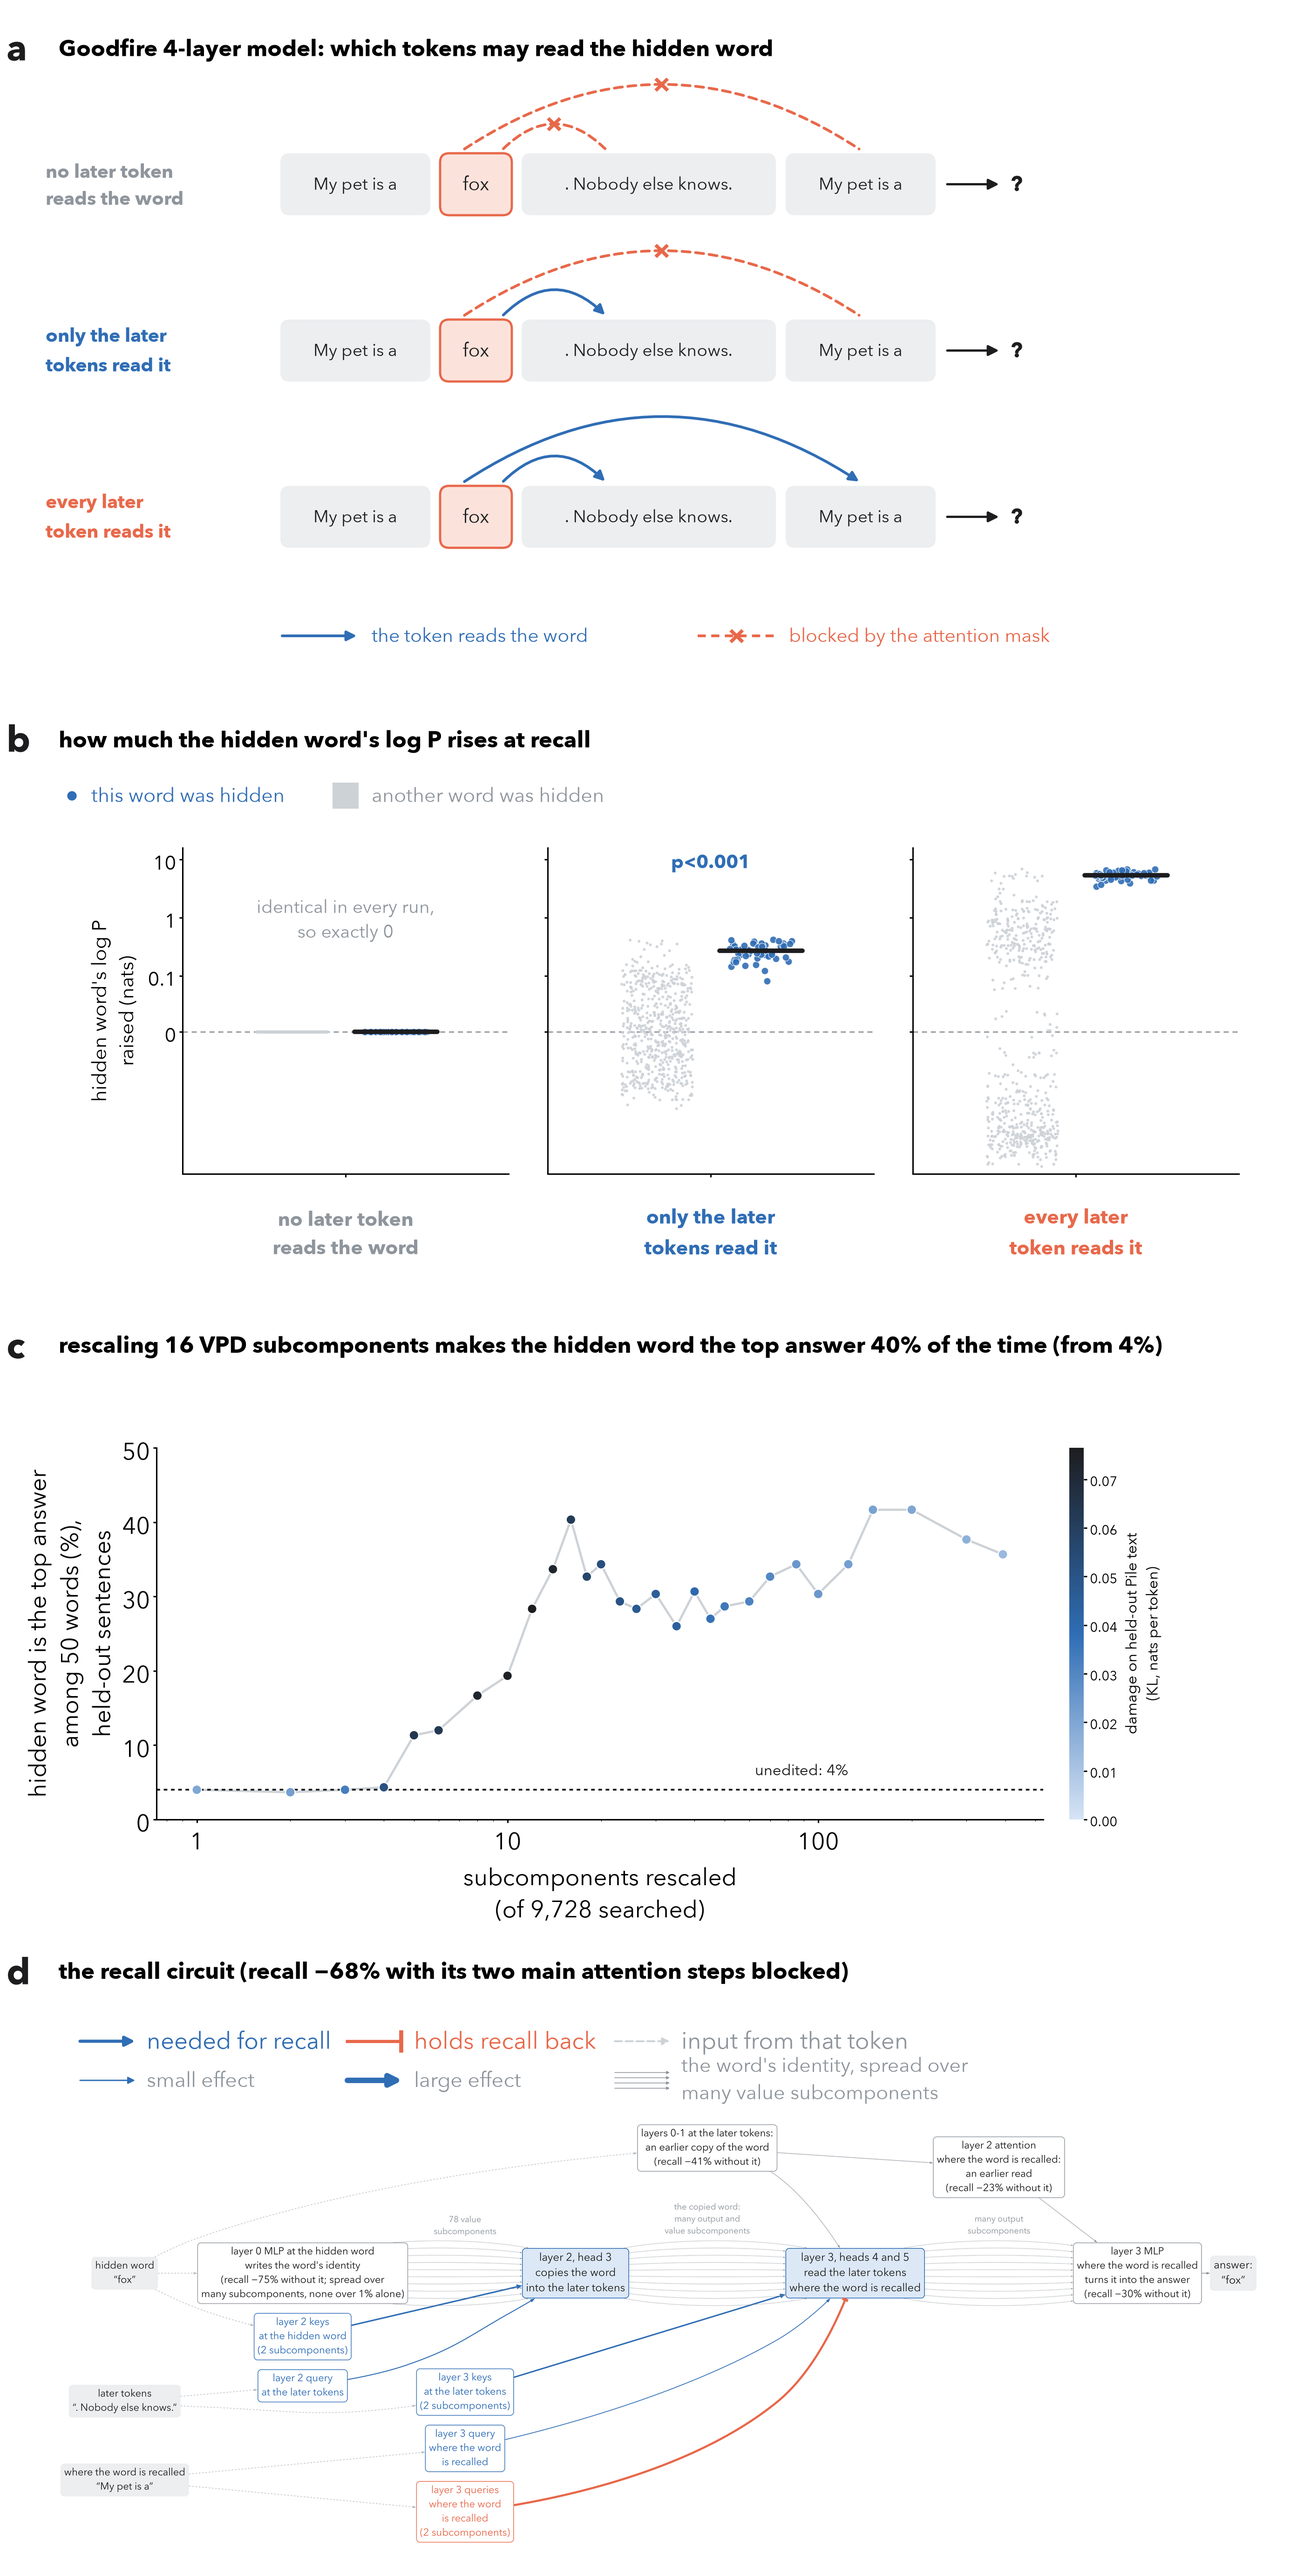
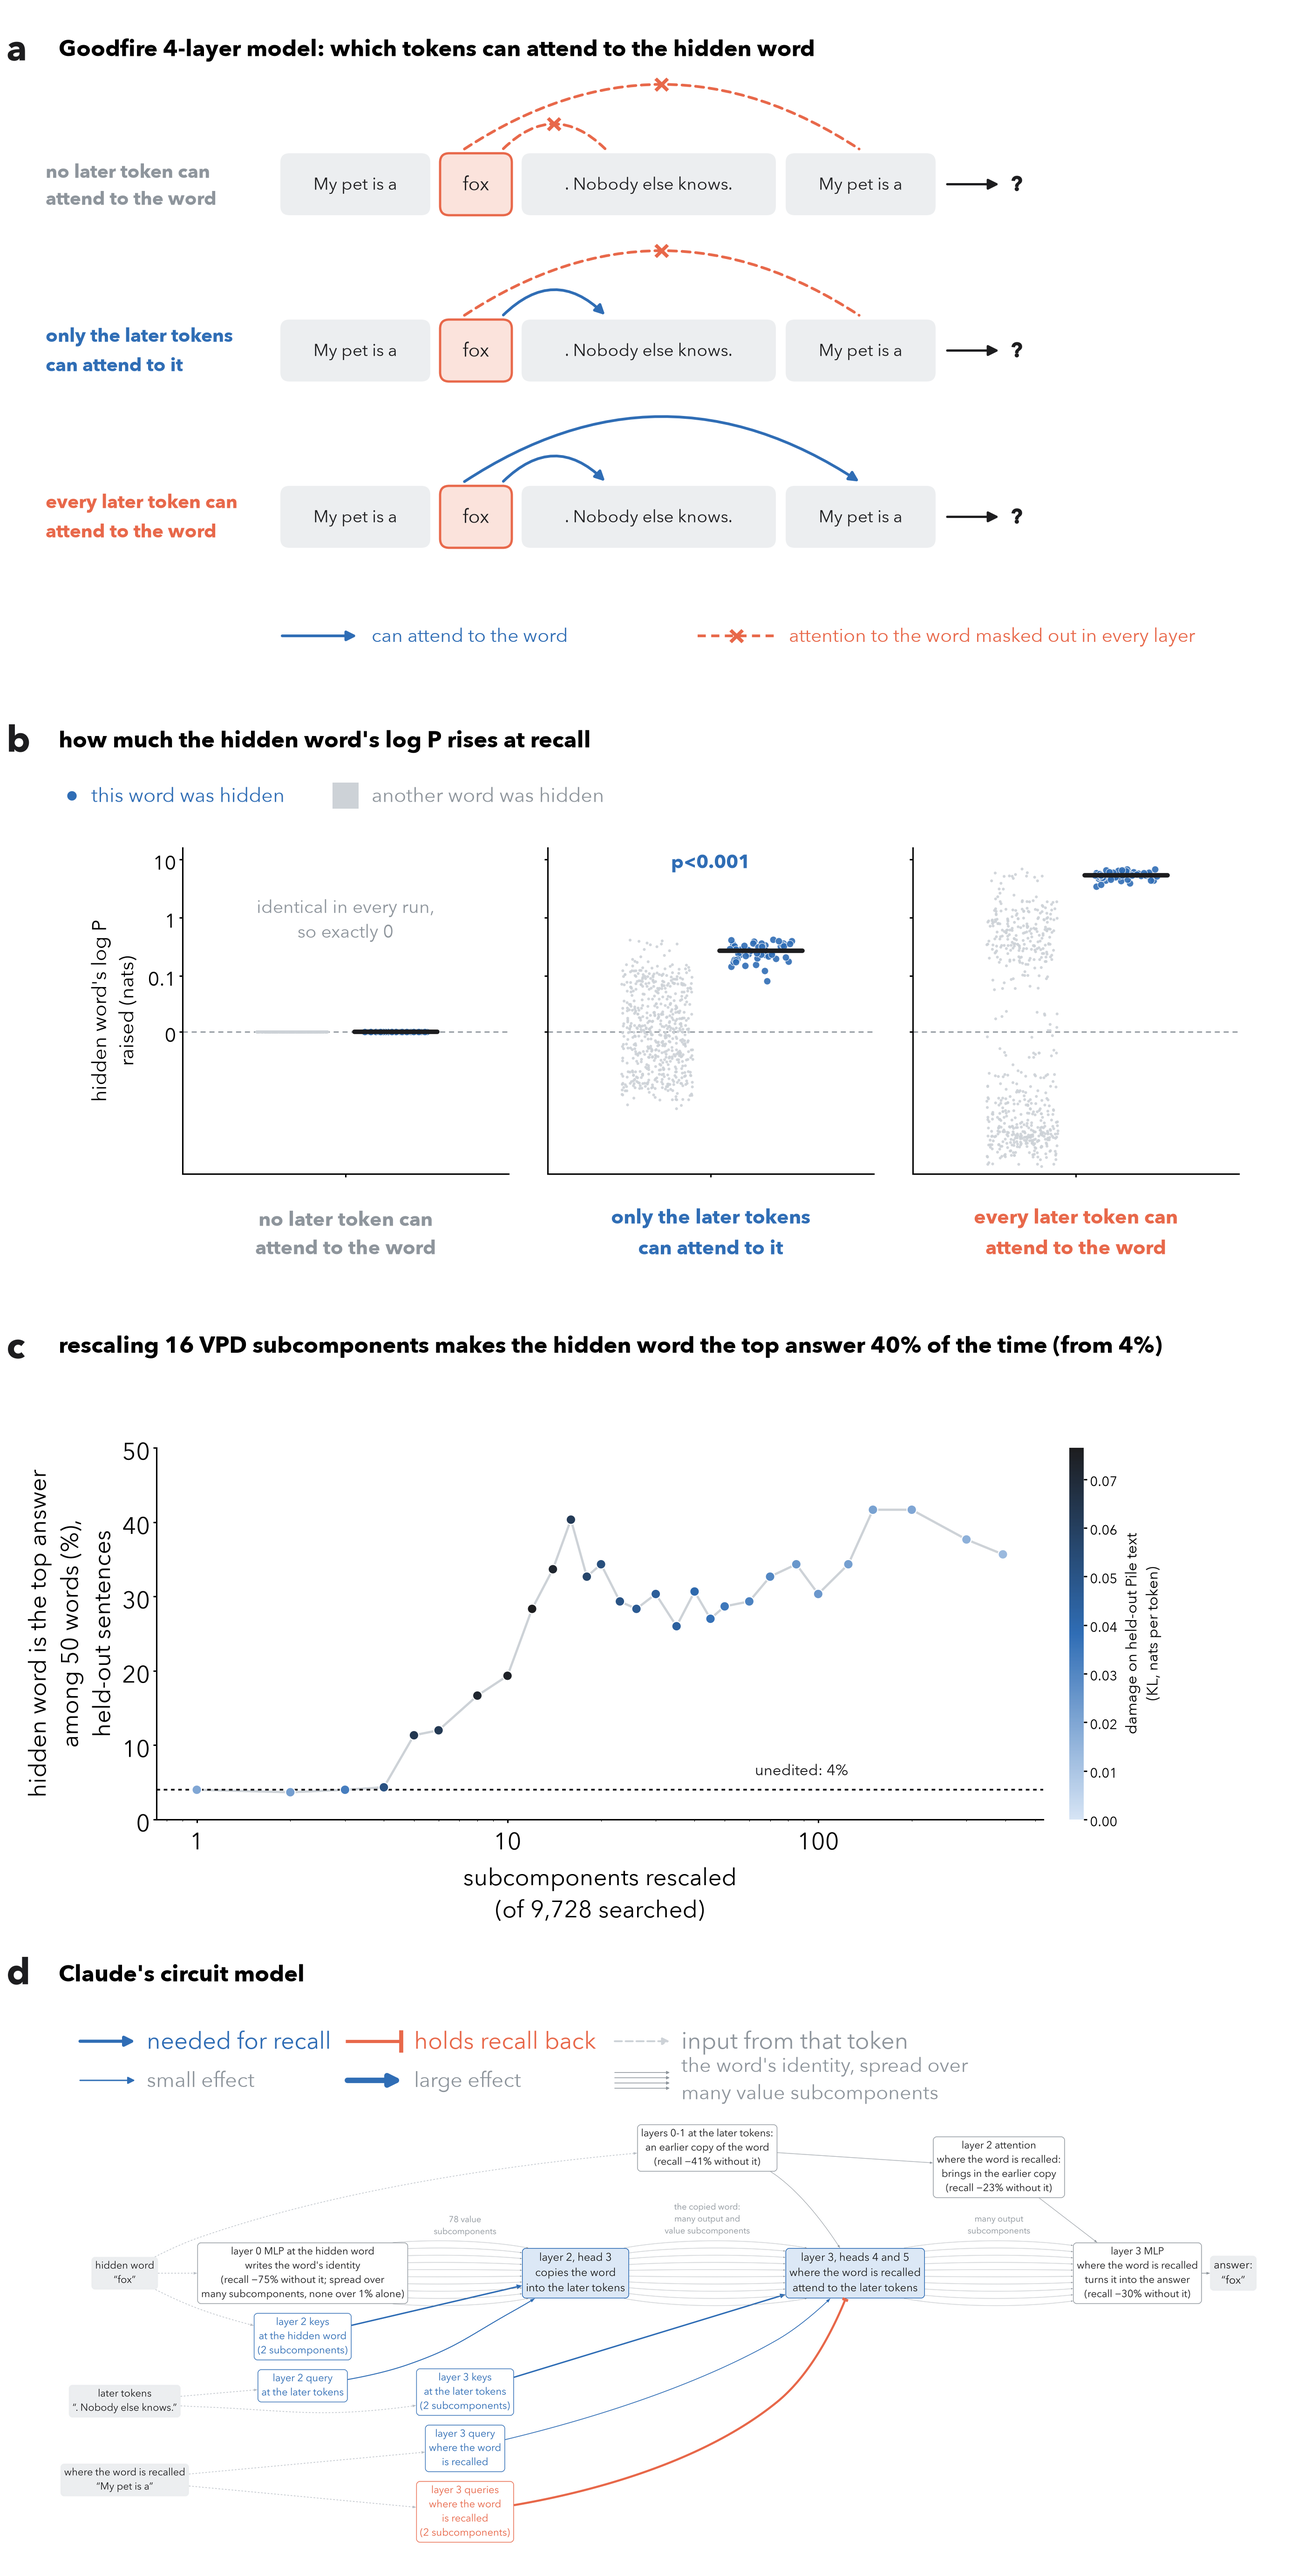
4-layer wording: 'read' replaced by what the masks and heads do (tokens that can attend to the word; attention to the word masked out in every layer; heads 3.4 and 3.5 attend to the later tokens; layer 2 attention brings in the earlier copy), in both figures; the Goodfire figure's circuit panel is t

diff --git a/figure_goodfire.py b/figure_goodfire.py
@@ -3,26 +3,25 @@
   b  in each condition, the raise of the hidden word's log P at recall within its template (nats), against the same with
      the hidden words re-paired at random (main figure: b's last column)
   c  the fewest VPD subcomponents that make the hidden word the top answer (main figure: i)
-  d  the recall circuit: two attention steps and the VPD subcomponents measured to switch them (main figure: k)
+  d  Claude's circuit model of recall: two attention steps and the VPD subcomponents measured to switch them (main
+     figure: k)
 usage: make_figure.sh
 """
 import argparse
 
 import matplotlib.pyplot as plt
 
-from figure_main import BLUE, CLOUD, CORAL, SLATE, Canvas, row_circuit, row_fourlayer, strip_raise, text_schematic
+from figure_main import BLUE, CLOUD, SLATE, TEXT_CONDITIONS, Canvas, row_circuit, row_fourlayer, strip_raise, text_schematic
 
 W = 20.0                                   # figure width in drawing units (inches)
 ROWS = [10.6, 9.3, 9.6, 10.0]              # heights of the four rows
 H = sum(ROWS)
-CONDITIONS = [("stripped", SLATE, "no later token\nreads the word"), ("retained", BLUE, "only the later\ntokens read it"),
-              ("visible", CORAL, "every later\ntoken reads it")]
 
 
 def row_test(cv, y0):
     """Panel a, occupying [y0, y0 + ROWS[0]], its key below the sentences."""
     top = y0 + ROWS[0]
-    text_schematic(cv, 0.6, top, letter="a", title="Goodfire 4-layer model: which tokens may read the hidden word",
+    text_schematic(cv, 0.6, top, letter="a", title="Goodfire 4-layer model: which tokens can attend to the hidden word",
                    key_at=(4.3, top - 9.75, 6.4, 0))
 
 
@@ -35,7 +34,7 @@ def row_raise(cv, text4l, y0):
     cv.S.text(1.4, top - 1.6, "this word was hidden", fontsize=22, color=BLUE, va="center")
     cv.S.add_patch(plt.Rectangle((5.1, top - 1.8), 0.4, 0.4, facecolor=CLOUD, edgecolor="none"))
     cv.S.text(5.7, top - 1.6, "another word was hidden", fontsize=22, color=SLATE, va="center")
-    for k, (name, col, label) in enumerate(CONDITIONS):
+    for k, (name, col, label) in enumerate(TEXT_CONDITIONS):
         x = 2.8 + 5.6 * k
         ax = cv.axes(x, y0 + 1.9, 5.0, ROWS[1] - 4.3)
         strip_raise(ax, text4l, name, (-3, 16), [0, 0.1, 1, 10], name == "retained")
@@ -65,7 +64,7 @@ def main():
                   title="rescaling {k} VPD subcomponents makes the hidden word the top answer {top:.0f}% of the time "
                         "(from {base:.0f}%)")
     row_circuit(cv, a.parts, 0, rh=ROWS[3], letter="d",
-                title="the recall circuit (recall −{share:.0f}% with its two main attention steps blocked)")
+                title="Claude's circuit model")
     fig.savefig(a.out, dpi=140)                    # 2,800 pixels wide, as main.png
 
 

diff --git a/figure_main.py b/figure_main.py
@@ -596,16 +596,20 @@ def row_schematic(cv, y0):
     text_schematic(cv, 0.6, y0 + ROWS[4])
 
 
+TEXT_CONDITIONS = [("stripped", SLATE, "no later token can\nattend to the word"),     # fourlayer/hidden_span.py masks
+                   ("retained", BLUE, "only the later tokens\ncan attend to it"),
+                   ("visible", CORAL, "every later token can\nattend to the word")]
+
+
 def text_schematic(cv, x0, top, letter="j", title="Goodfire 4-layer model: the same test in plain text", key_at=None):
     """Panel j: the three conditions of Goodfire's 4-layer model in plain text (fourlayer/hidden_span.py): attention
-    masks, in every layer, decide which later tokens may read the hidden word; arcs from the word to its readers.
+    masks, in every layer and head, decide which later tokens may attend to the hidden word; arcs from the word to the
+    tokens that may.
     key_at: (x, y, dx, dy) of the key's first entry and the step to its second (default: to the right, stacked)."""
     S, h = cv.S, 0.95
     cv.letter(x0 - 0.5, top - 0.75, letter)
     S.text(x0 + 0.3, top - 0.75, title, fontsize=25, weight="bold", va="center")
-    rows = [("stripped", SLATE, "no later token\nreads the word", False, False),
-            ("retained", BLUE, "only the later\ntokens read it", True, False),
-            ("visible", CORAL, "every later\ntoken reads it", True, True)]
+    rows = [c + ok for c, ok in zip(TEXT_CONDITIONS, ((False, False), (True, False), (True, True)))]
     xs = {"frame": (x0 + 3.7, 2.3), "word": (x0 + 6.15, 1.1), "later": (x0 + 7.4, 3.9), "cue": (x0 + 11.45, 2.3)}
 
     def arc(xa, xb, y, ok, rad):
@@ -630,11 +634,11 @@ def text_schematic(cv, x0, top, letter="j", title="Goodfire 4-layer model: the s
         arc(wx - 0.2, xs["cue"][0] + xs["cue"][1] / 2, y + h + 0.05, cue_ok, -0.33)
     kx, ky, dx, dy = key_at or (x0 + 17.2, top - 3.3 - 2.55 + h / 2 + 0.45, 0, -0.9)
     S.annotate("", xy=(kx + 1.2, ky), xytext=(kx, ky), arrowprops=dict(arrowstyle="-|>", color=BLUE, lw=3, mutation_scale=22))
-    S.text(kx + 1.4, ky, "the token reads the word", fontsize=21, color=BLUE, va="center")
+    S.text(kx + 1.4, ky, "can attend to the word", fontsize=21, color=BLUE, va="center")
     kx, ky = kx + dx, ky + dy
     S.plot([kx, kx + 1.2], [ky, ky], color=CORAL, lw=3, ls=(0, (3, 2)))
     S.text(kx + 0.6, ky, "\u00d7", ha="center", va="center", fontsize=30, color=CORAL, weight="bold")
-    S.text(kx + 1.4, ky, "blocked by the attention mask", fontsize=21, color=CORAL, va="center")
+    S.text(kx + 1.4, ky, "attention to the word masked out in every layer", fontsize=21, color=CORAL, va="center")
 
 
 MECH_ATT, MECH_WORD = "results/fp32/attention_all.npz", "results/fp32/wording_heldout_mac.npz"

diff --git a/circuit_dot.py b/circuit_dot.py
@@ -1,7 +1,7 @@
 """Circuit diagrams of Goodfire's 4-layer model laid out by Graphviz (dot), for figure_main.py.
 
 gates_dot: the recall circuit as parts and wires: the two attention steps (head 2.3 copies the word into the later
-  tokens; heads 3.4 and 3.5 read them where the word is recalled) and the VPD subcomponents measured to switch them on or off
+  tokens; heads 3.4 and 3.5 attend to them where the word is recalled) and the VPD subcomponents measured to switch them on or off
   (fourlayer/attention_gates.py, fourlayer/subcomponent_circuit.py).
 render(dot, path, snap): dot -> PNG; label nodes moved up under their wires after layout.
 """
@@ -95,10 +95,10 @@ def gates_dot(g, routes):
   {{ rank=same; k3 [label="layer 3 keys\nat the later tokens\n(2 subcomponents)", color="{BLUE}", fontcolor="{BLUE}", {part}];
     q3 [label="layer 3 query\nwhere the word\nis recalled", color="{BLUE}", fontcolor="{BLUE}", {part}];
     b3 [label="layer 3 queries\nwhere the word\nis recalled\n(2 subcomponents)", color="{CORAL}", fontcolor="{CORAL}", {part}]; }}
-  h3 [label="layer 3, heads 4 and 5\nread the later tokens\nwhere the word is recalled", {head}];
+  h3 [label="layer 3, heads 4 and 5\nwhere the word is recalled\nattend to the later tokens", {head}];
   m0 [label="layer 0 MLP at the hidden word\nwrites the word's identity\n(recall {share('0.mlp@word')} without it; spread over\nmany subcomponents, none over {100 * biggest:.0f}% alone)", {stage}];
   early [label="layers 0-1 at the later tokens:\nan earlier copy of the word\n(recall {combo('0.attn@later,0.mlp@later,1.attn@later')} without it)", {stage}];
-  read2 [label="layer 2 attention\nwhere the word is recalled:\nan earlier read\n(recall {share('2.attn@cue')} without it)", {stage}];
+  read2 [label="layer 2 attention\nwhere the word is recalled:\nbrings in the earlier copy\n(recall {share('2.attn@cue')} without it)", {stage}];
   m3 [label="layer 3 MLP\nwhere the word is recalled\nturns it into the answer\n(recall {share('3.mlp@cue')} without it)", {stage}];
   answer [label="answer:\n“fox”", style="rounded,filled,bold", fillcolor="{PALE_SLATE}", color="{PALE_SLATE}", fontcolor="{INK}", fontsize=40];
   word -> k2 [{info}]; word -> m0 [{info}]; later -> q2 [{info}]; later -> k3 [{info}]; cue -> q3 [{info}]; cue -> b3 [{info}];
